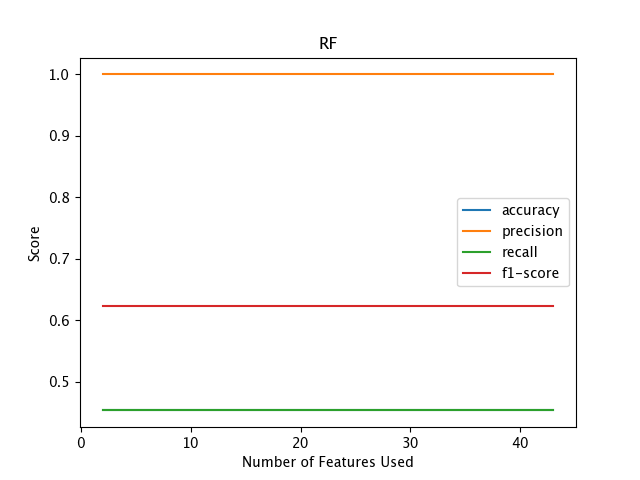
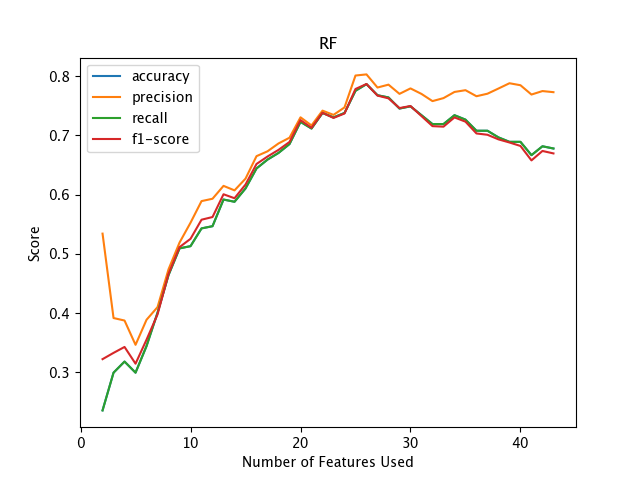
svm implenetation. 79% accuracy achieved

diff --git a/svm.py b/svm.py
@@ -12,6 +12,10 @@ from sklearn.utils import resample
 from sklearn.decomposition import PCA, KernelPCA
 from sklearn.discriminant_analysis import LinearDiscriminantAnalysis as LDA
 
+from collections import Counter
+
+from imblearn.over_sampling import SMOTE
+
 import sys
 
 df = pd.read_csv('student-mat-edited.csv')
@@ -38,16 +42,25 @@ df['scores'] = df['scores'].astype(np.int)
 
 df = df.drop(index=1, columns=['G1', 'G2', 'G3'])
 
-X = df[[i for i in list(df.columns) if i != "socres"]]
+X = df[[i for i in list(df.columns) if i != "scores"]]
 y = df['scores']
+
+#https://machinelearningmastery.com/multi-class-imbalanced-classification/
+#Get rid of class imbalance in the target feature by oversampling
+oversample = SMOTE()
+X, y = oversample.fit_resample(X, y)
+
+
 
 #list of features in order of importance determined by SBS feature selection
 
-sbs_features = ['J_Dz(e)', 'nHM', 'F01[N-N]', 'F04[C-N]', 'NssssC', 'nCb-', 'C%', 'nCp',
-       'F03[C-N]', 'SdssC', 'HyWi_B(m)', 'LOC', 'SM6_L', 'F03[C-0]', 'Me',
-       'Mi', 'nN-N', 'nArN02', 'nCRX3', 'nCIR', 'B03[C-Cl]', 'SpMax_A',
-       'Psi_i_1d', 'B04[C-Br]', 'NCrt', 'C-026', 'nHDon', 'SpMax_B(m)',
-       'Psi_i_A', 'nN', 'SM6_B(m)']
+sbs_features = ['sex', 'age', 'address', 'famsize', 'Pstatus', 'Medu', 'Fedu',
+       'traveltime', 'studytime', 'failures', 'schoolsup', 'paid',
+       'activities', 'nursery', 'higher', 'internet', 'romantic', 'famrel',
+       'goout', 'Dalc', 'Walc', 'health', 'absences', 'Mjob_at_home',
+       'Mjob_health', 'Mjob_services', 'Mjob_teacher', 'Fjob_at_home',
+       'Fjob_health', 'Fjob_other', 'Fjob_services', 'reason_home',
+       'guardian_father']
 
 
 #list of features in order of importance determined by RF feature selection
@@ -92,12 +105,15 @@ X_test_kpca = scikit_kpca.fit_transform(X_test_std)
 
 #LDA
 
-#normalize the dataset before performing LDA                    
-norm = Normalizer()
-X_train_norm = norm.fit_transform(X_train)
-X_test_norm = norm.transform(X_test)
+#normalize the dataset before performing LDA   
 
-lda = LDA(n_components=2)
+
+norm = Normalizer()
+X_train_norm = norm.fit_transform(X_train[rf_features])
+X_test_norm = norm.transform(X_test[rf_features])
+
+
+lda = LDA(n_components=3)
 X_train_lda = lda.fit_transform(X_train_norm, y_train)
 X_test_lda = lda.transform(X_test_norm)
 
@@ -122,25 +138,26 @@ gs = GridSearchCV(estimator=SVC(class_weight='balanced'),
                   n_jobs=-1)
 
 
-# #grid search for each feature extraction method
-# for X_train_gs, name in zip([X_train_std, X_train_lda, X_train_pca, X_train_kpca], ["No Feature Extraction", "LDA", "PCA", "KPCA"]):
-#     print("\n\nGrid search for", name)
-#     gs = gs.fit(X_train_gs, y_train)
-#     print("Accuracy:", gs.best_score_)
-#     print("Parameters:", gs.best_params_)
+#grid search for each feature extraction method
+for X_train_gs, name in zip([X_train_std, X_train_lda, X_train_pca, X_train_kpca], ["No Feature Extraction", "LDA", "PCA", "KPCA"]):
+    print("\n\nGrid search for", name)
+    gs = gs.fit(X_train_gs, y_train)
+    print("Accuracy:", gs.best_score_)
+    print("Parameters:", gs.best_params_)
 
-# gs = GridSearchCV(estimator=SVC(class_weight='balanced'),
-#                 param_grid=param_grid,
-#                 scoring='accuracy',
-#                 cv=2)
+gs = GridSearchCV(estimator=SVC(class_weight='balanced'),
+                param_grid=param_grid,
+                scoring='accuracy',
+                cv=2)
 
-# scores = cross_val_score(gs, X_train, y_train,
-#                         scoring='accuracy', cv=5)
+scores = cross_val_score(gs, X_train, y_train,
+                        scoring='accuracy', cv=5)
 
-# print("\n\nCV Accuracy: %.3f +/- %.3f" % (np.mean(scores), np.std(scores)))
+print("\n\nCV Accuracy: %.3f +/- %.3f" % (np.mean(scores), np.std(scores)))
 
-#Hyper parameters determined from previous grid search
-svm = SVC(C=.001, kernel='linear', gamma=.1)
+
+Hyper parameters determined from previous grid search
+svm = SVC(C=10, kernel='rbf', gamma=.1)
 
 #Calculate accuracy, precision, recall, and f1-score using each RF and SBS feature selection
 num_features = list(range(2, 44))
@@ -155,22 +172,14 @@ for name, features in zip(["RF", "SBS"], [rf_features, sbs_features]):
         #Code from https://stackoverflow.com/questions/40636514/selecting-pandas-dataframe-column-by-list
         X_train_new = X_train[X_train.columns.intersection(features[:num])]
         X_test_new = X_test[X_test.columns.intersection(features[:num])]
-
-        #Apply standard scaler
-        #X_train_std = stdsc.fit_transform(X_train_new)
-        #X_test_std = stdsc.transform(X_test_new)
-
-        #normalize the dataset before performing LDA                    
-        X_train_norm = norm.fit_transform(X_train_new)
-        X_test_norm = norm.transform(X_test_new)
-
-        X_train_lda = lda.fit_transform(X_train_norm, y_train)
-        X_test_lda = lda.transform(X_test_norm)
+       
+        X_train_std = stdsc.fit_transform(X_train_new)
+        X_test_std = stdsc.transform(X_test_new)
 
         print("\n\nNumber of features:", num)
-            
-        svm.fit(X_train_lda, y_train)
-        y_pred = svm.predict(X_test_lda)
+
+        svm.fit(X_train_std, y_train)
+        y_pred = svm.predict(X_test_std)
 
         accuracy = accuracy_score(y_pred, y_test)
         precision = precision_score(y_pred, y_test, average='weighted')
